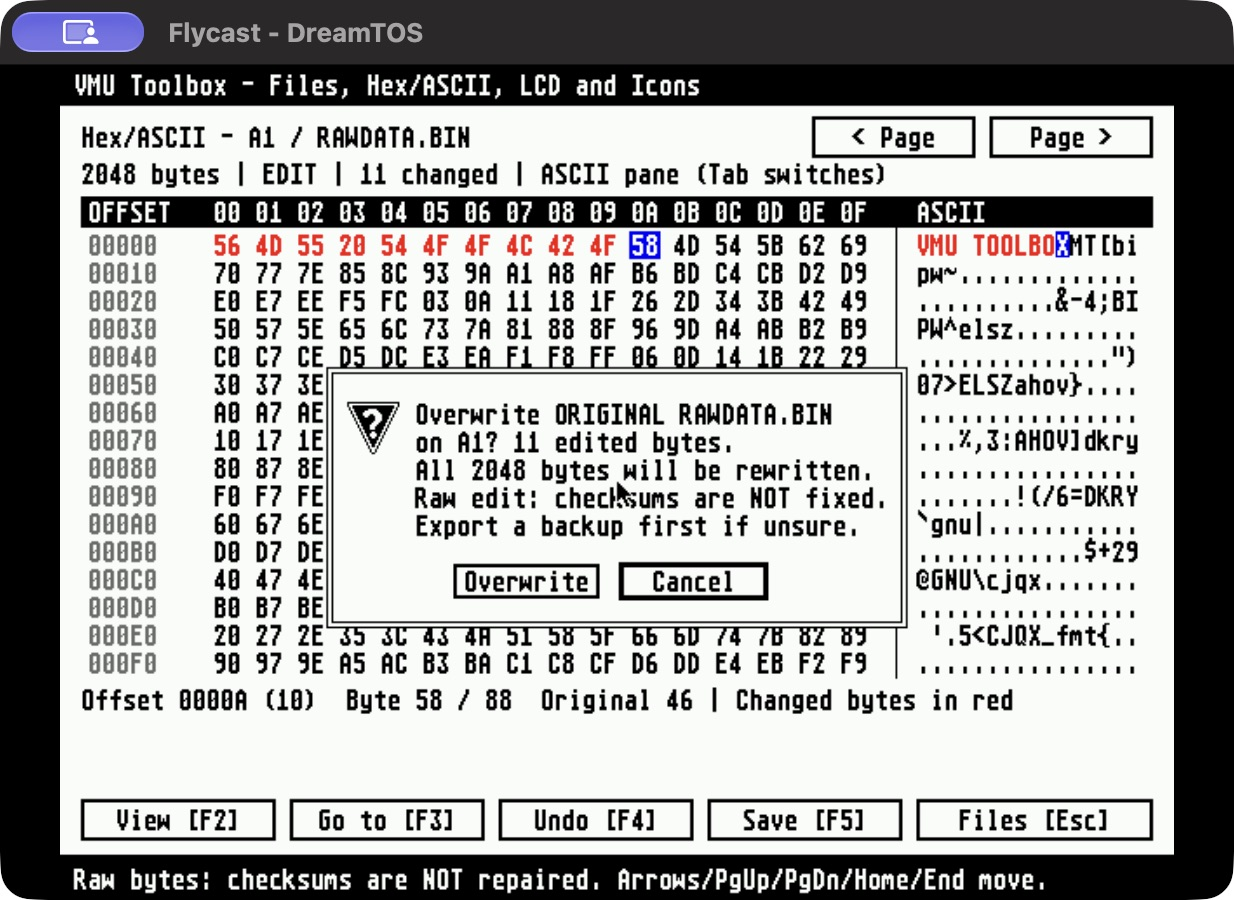
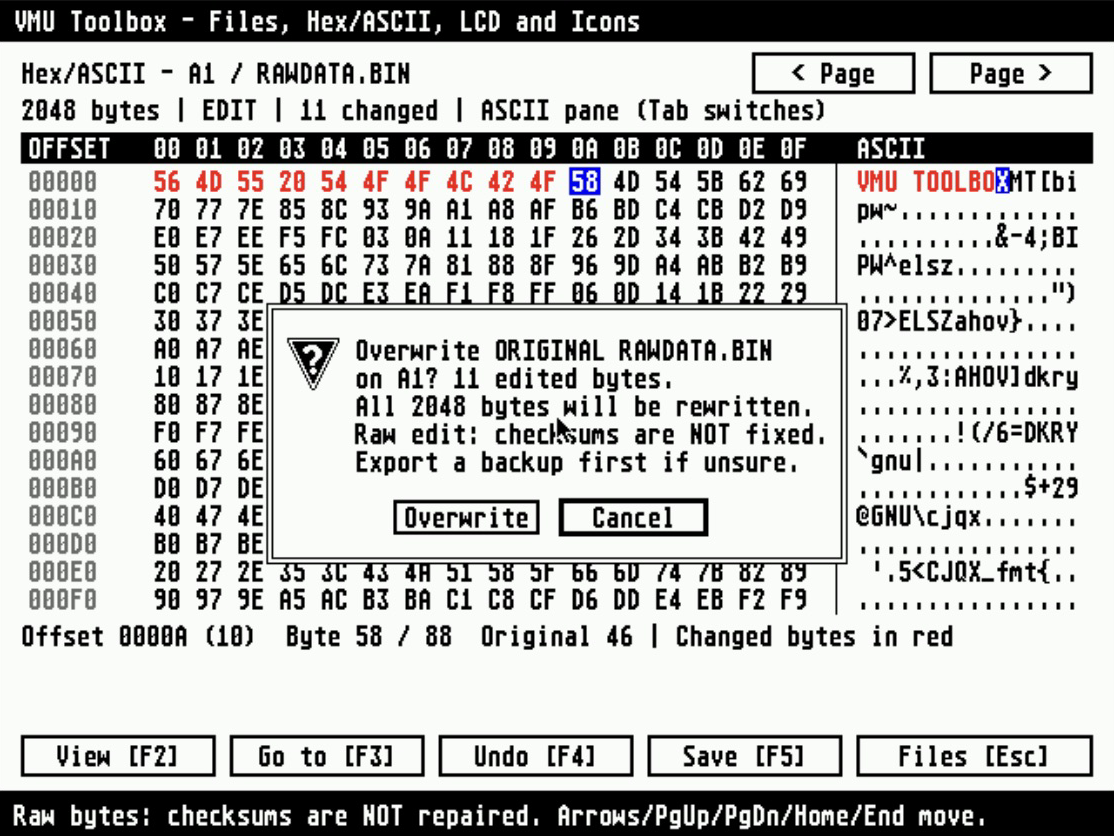
Add cropped VMU Toolbox screenshot to README

diff --git a/README.md b/README.md
@@ -64,9 +64,13 @@ Tested on real Dreamcast hardware and seems to work.
     </td>
   </tr>
   <tr>
-    <td colspan="2" align="center">
+    <td width="50%" align="center">
       <a href="docs/screenshots/ssh-client.png"><img src="docs/screenshots/ssh-client.png" width="480" alt="Dream TOS SSH client connected to an OpenSSH server, showing remote commands, an 80 by 30 xterm terminal and coloured output"></a><br>
       <strong>SSH remote terminal</strong>
+    </td>
+    <td width="50%" align="center">
+      <a href="docs/screenshots/vmu-toolbox-hex.png"><img src="docs/screenshots/vmu-toolbox-hex.png" width="480" alt="VMU Toolbox hex and ASCII save editor with synchronized byte selection, changed bytes in red, undo and confirmed saving"></a><br>
+      <strong>VMU Toolbox (hex / ASCII editor)</strong>
     </td>
   </tr>
 </table>
